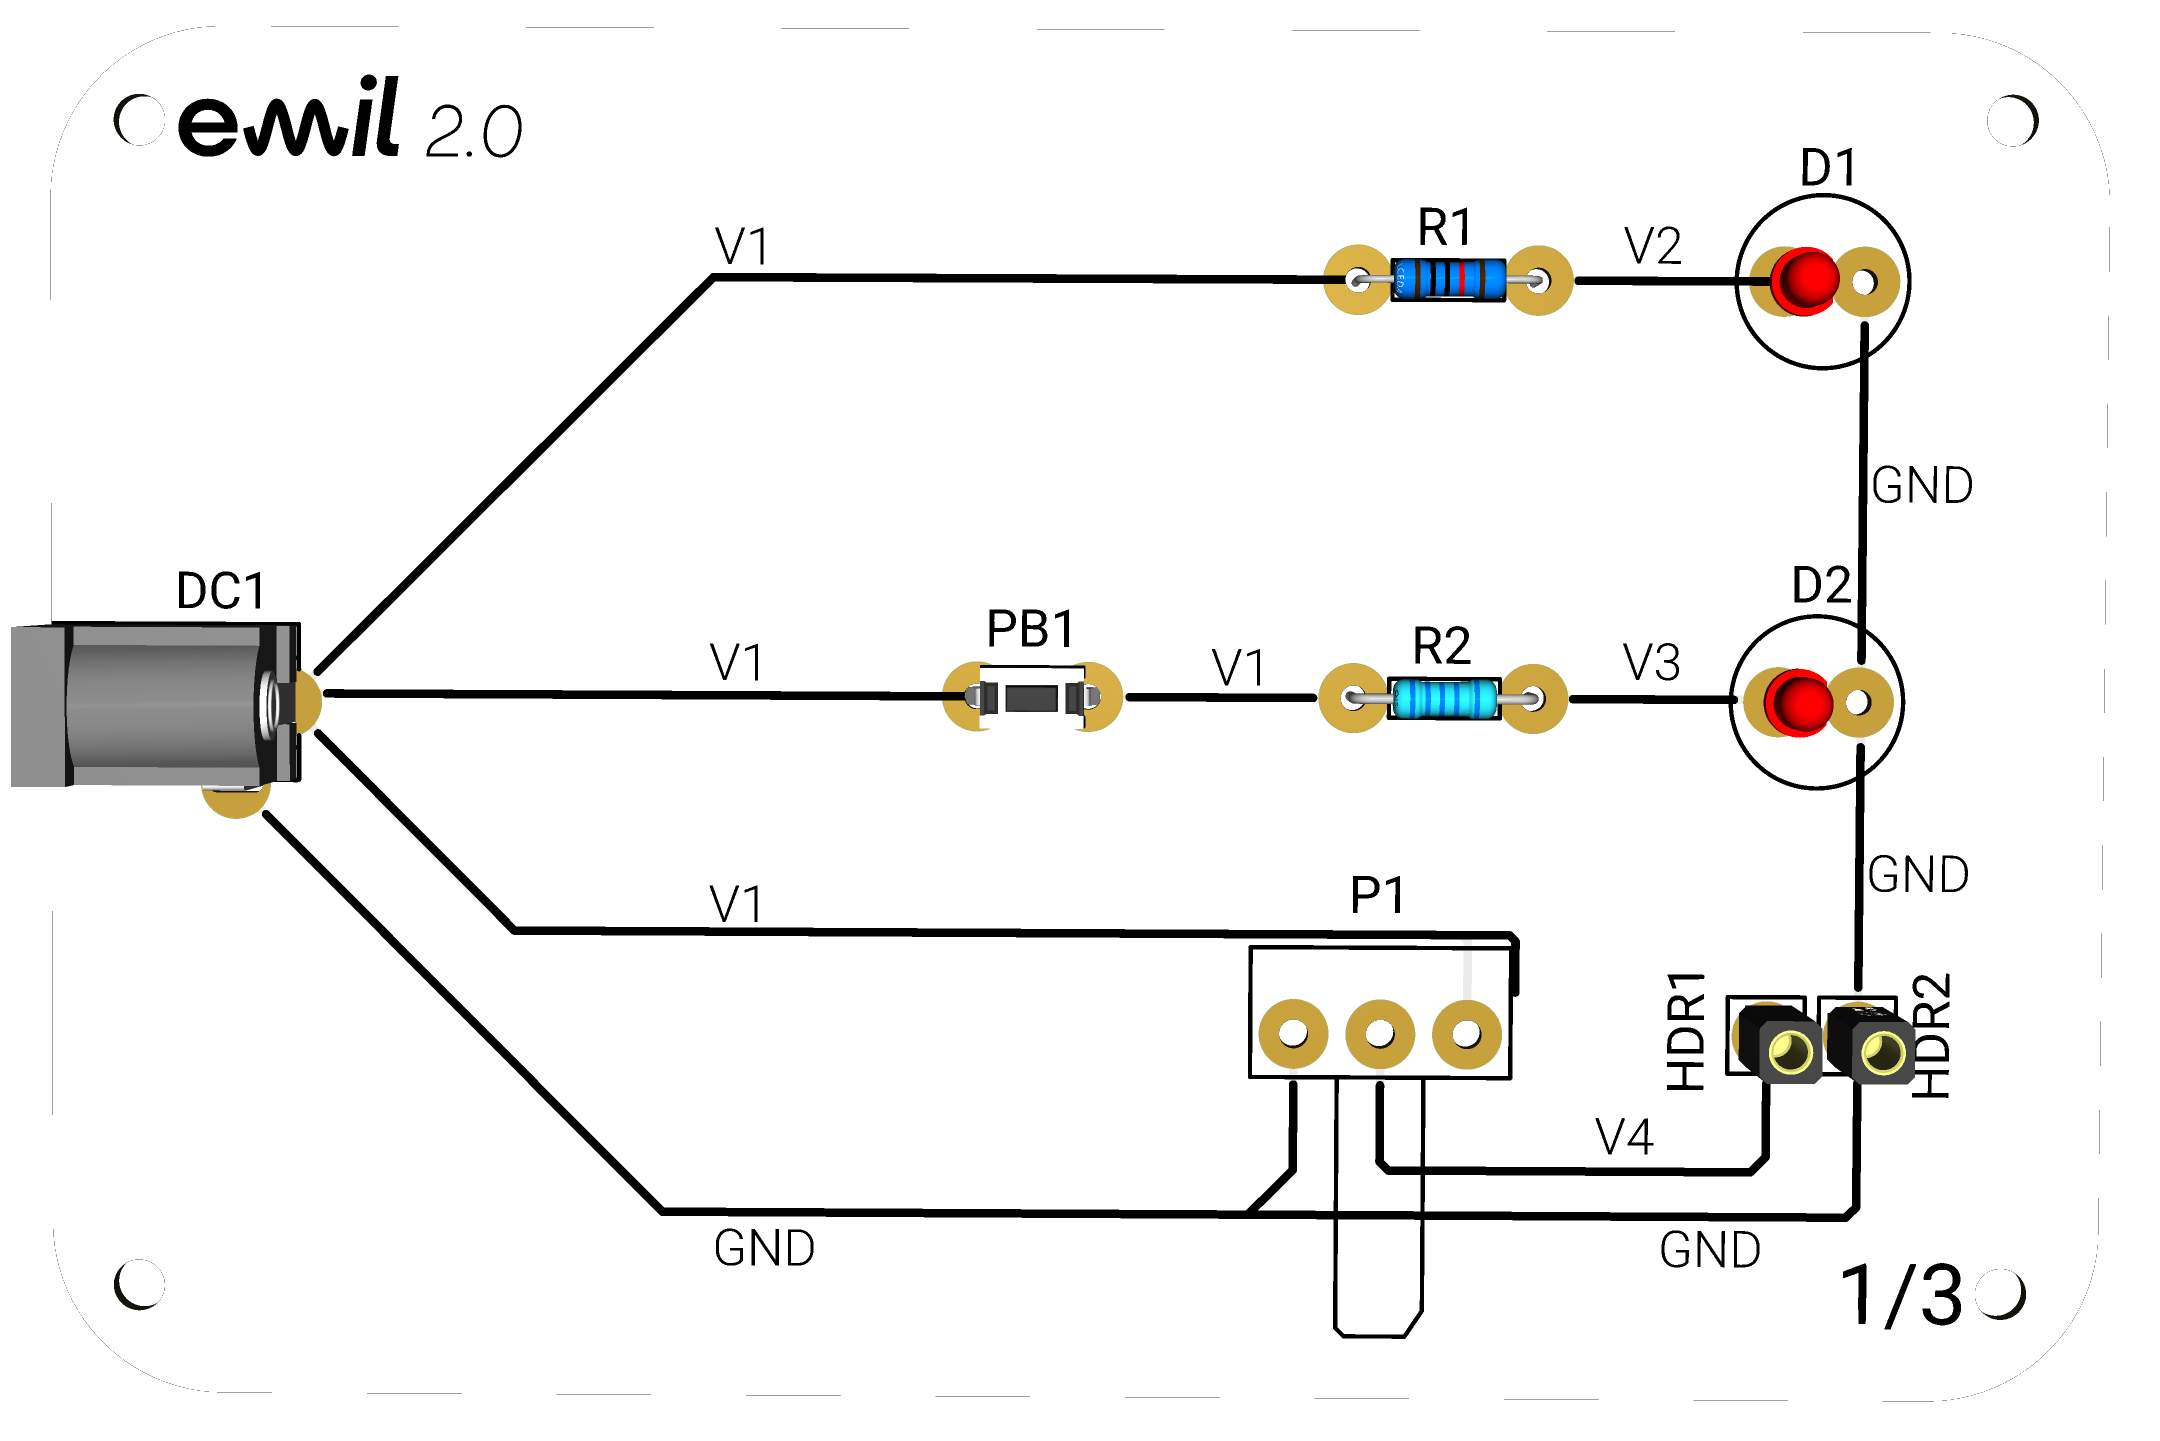
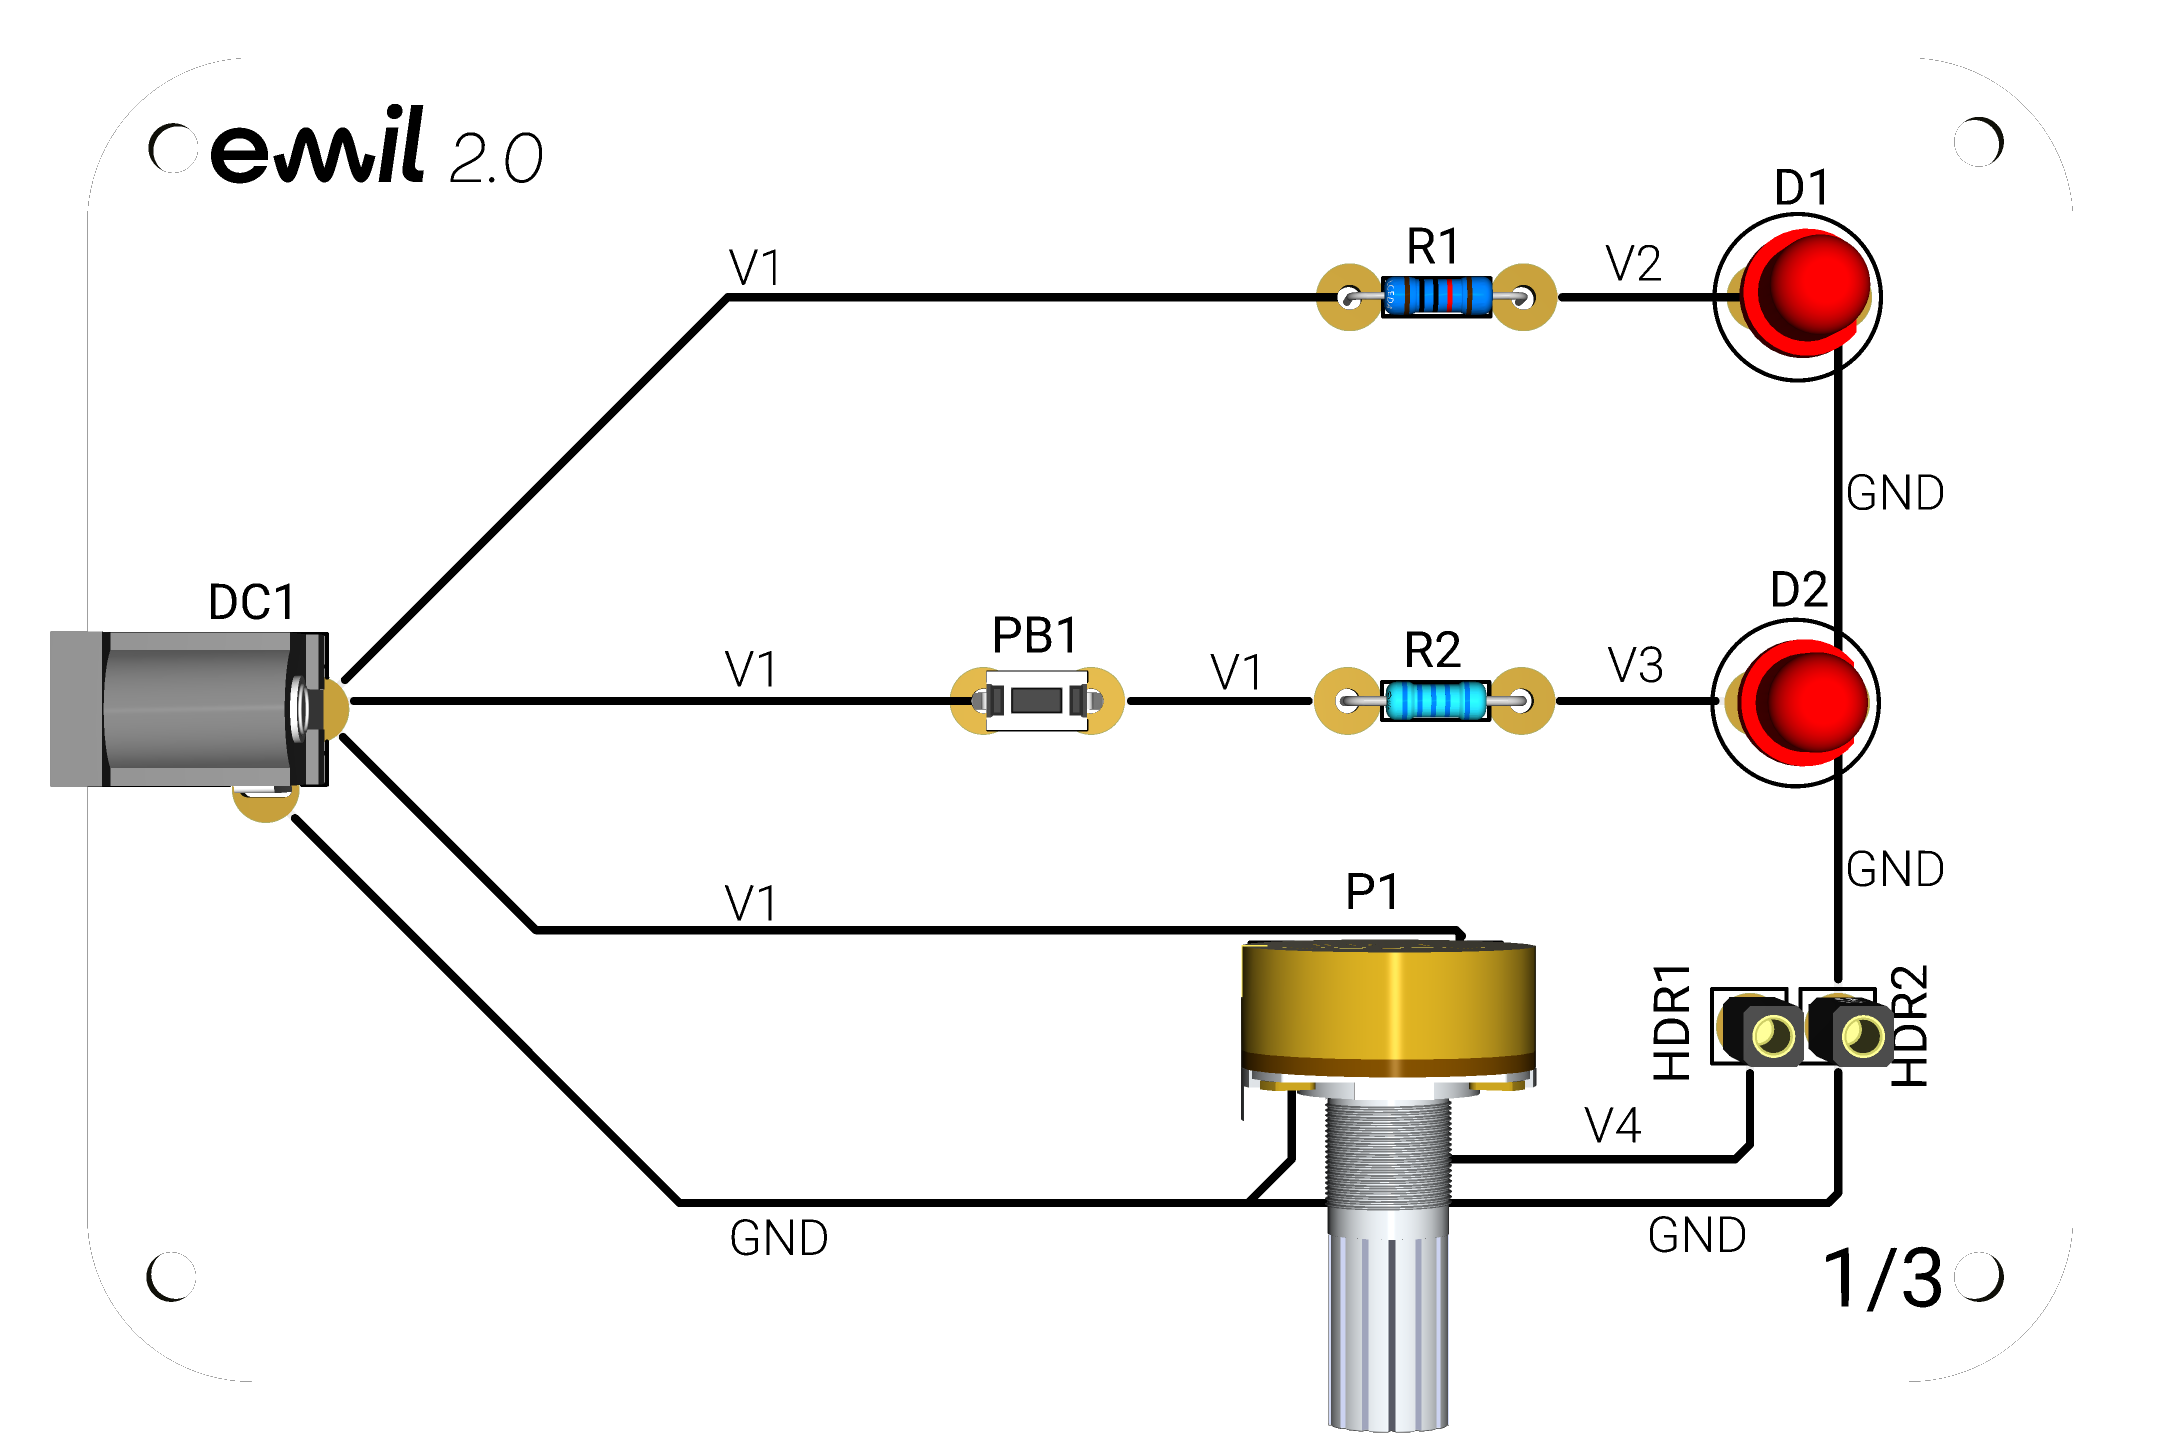
newest

diff --git a/index.html b/index.html
@@ -60,9 +60,9 @@
   <div class="wrap hero-grid">
 
     <figure class="hero-visual reveal">
-      <img src="assets/img/emil-deska-2-pcb.png"
+      <img src="assets/img/emil-deska-2-hero.png"
            alt="Neosazená deska plošných spojů Emil 2.0 (2/3) s potiskem schématu a pájecími ploškami"
-           width="1620" height="1079" fetchpriority="high">
+           width="2160" height="1439" fetchpriority="high">
     </figure>
 
     <div class="hero-copy reveal">
@@ -164,7 +164,7 @@
 
         <!-- ---- Deska 1/3 ---- -->
         <div class="board-stage" id="panel-b1" role="tabpanel" aria-labelledby="tab-b1">
-          <img src="assets/img/emil-deska-1.png" alt="Deska Emil 1/3 — DC konektor, rezistory, dvě LED diody, tlačítko, potenciometr a dva header konektory" width="1620" height="1081">
+          <img src="assets/img/emil-deska-1.png" alt="Deska Emil 1/3 — DC konektor, rezistory, dvě LED diody, tlačítko, potenciometr a dva header konektory" width="2160" height="1451">
           <div class="hotspots">
             <button class="hs" style="--x:7.5%;--y:48.4%"  data-part="b1-dc1"><i></i><span class="hs-tag">DC1</span></button>
             <button class="hs" style="--x:66.9%;--y:19.3%" data-part="b1-r1"><i></i><span class="hs-tag">R1</span></button>
@@ -179,7 +179,7 @@
 
         <!-- ---- Deska 2/3 ---- -->
         <div class="board-stage" id="panel-b2" role="tabpanel" aria-labelledby="tab-b2" hidden>
-          <img src="assets/img/emil-deska-2.png" alt="Deska Emil 2/3 — DC konektor, přepínač, teplotní rezistor, fotorezistor, tlačítko, kondenzátor, rezistor a tři LED diody" width="1620" height="1077" loading="lazy">
+          <img src="assets/img/emil-deska-2.png" alt="Deska Emil 2/3 — DC konektor, přepínač, teplotní rezistor, fotorezistor, tlačítko, kondenzátor, rezistor a tři LED diody" width="2160" height="1439" loading="lazy">
           <div class="hotspots">
             <button class="hs" style="--x:7.5%;--y:48.5%"  data-part="b2-dc1"><i></i><span class="hs-tag">DC1</span></button>
             <button class="hs" style="--x:39.5%;--y:32.7%" data-part="b2-sw1"><i></i><span class="hs-tag">SW1</span></button>
@@ -196,7 +196,7 @@
 
         <!-- ---- Deska 3/3 ---- -->
         <div class="board-stage" id="panel-b3" role="tabpanel" aria-labelledby="tab-b3" hidden>
-          <img src="assets/img/emil-deska-3.png" alt="Deska Emil 3/3 — DC konektor, rezistory, fotorezistor, testovací body TP1 až TP4, tři LED diody, cívka a tlačítko" width="1620" height="1084" loading="lazy">
+          <img src="assets/img/emil-deska-3.png" alt="Deska Emil 3/3 — DC konektor, rezistory, fotorezistor, testovací body TP1 až TP4, tři LED diody, cívka a tlačítko" width="2160" height="1439" loading="lazy">
           <div class="hotspots">
             <button class="hs" style="--x:7.5%;--y:47.8%"  data-part="b3-dc1"><i></i><span class="hs-tag">DC1</span></button>
             <button class="hs" style="--x:47.0%;--y:22.0%" data-part="b3-r1"><i></i><span class="hs-tag">R1</span></button>
@@ -227,7 +227,6 @@
           <div><dt>Uzel</dt><dd id="partNode">—</dd></div>
           <div><dt>Typ</dt><dd id="partType">—</dd></div>
         </dl>
-        <p class="panel-hint">Tip: procházejte body klávesami <kbd>←</kbd> <kbd>→</kbd>.</p>
       </aside>
 
     </div>
@@ -367,7 +366,7 @@
   <div class="wrap split split--rev">
 
     <figure class="split-media split-media--plain reveal">
-      <img src="assets/img/emil-deska-3.png" alt="Osazená deska Emil 3/3 s rezistory, fotorezistorem, cívkou, tlačítkem a třemi LED diodami" width="1620" height="1084" loading="lazy">
+      <img src="assets/img/emil-deska-3.png" alt="Osazená deska Emil 3/3 s rezistory, fotorezistorem, cívkou, tlačítkem a třemi LED diodami" width="2160" height="1439" loading="lazy">
       <figcaption>Deska 3/3 po osazení — cívka L1 a měřicí body TP1 až TP4.</figcaption>
     </figure>
 
@@ -448,8 +447,45 @@
       Napište nám počet sad a ročník, pro který desky sháníte. Ozveme se
       s cenovou nabídkou a termínem dodání.
     </p>
+
+    <form class="contact-form" id="contactForm" action="https://formsubmit.co/ajax/filip.zika@forestbit.cz" method="POST" novalidate>
+      <input type="hidden" name="_subject" value="Nová poptávka z webu Emil 2.0">
+      <input type="hidden" name="_captcha" value="false">
+      <input type="text" name="_honey" class="hp-field" tabindex="-1" autocomplete="off" aria-hidden="true">
+
+      <div class="form-row">
+        <label for="cfName">Jméno a příjmení *</label>
+        <input type="text" id="cfName" name="Jméno" required autocomplete="name">
+      </div>
+
+      <div class="form-row form-row--split">
+        <div>
+          <label for="cfSchool">Škola / organizace</label>
+          <input type="text" id="cfSchool" name="Škola" autocomplete="organization">
+        </div>
+        <div>
+          <label for="cfQty">Počet sad</label>
+          <input type="number" id="cfQty" name="Počet sad" min="1" inputmode="numeric">
+        </div>
+      </div>
+
+      <div class="form-row">
+        <label for="cfEmail">E-mail *</label>
+        <input type="email" id="cfEmail" name="E-mail" required autocomplete="email">
+      </div>
+
+      <div class="form-row">
+        <label for="cfMessage">Zpráva *</label>
+        <textarea id="cfMessage" name="Zpráva" rows="4" required></textarea>
+      </div>
+
+      <button class="btn btn--inv" type="submit">Odeslat poptávku</button>
+      <p class="form-status" id="formStatus" role="status" aria-live="polite"></p>
+    </form>
+
+    <p class="cta-alt">Nebo napište přímo:</p>
     <div class="cta-actions">
-      <a class="btn btn--inv" href="mailto:info@forestbit.cz?subject=Poptávka%20Emil%202.0">info@forestbit.cz</a>
+      <a class="btn btn--outline-inv" href="mailto:filip.zika@forestbit.cz?subject=Poptávka%20Emil%202.0">filip.zika@forestbit.cz</a>
       <a class="btn btn--outline-inv" href="https://www.instagram.com/emil_2_0_/" target="_blank" rel="noopener">@emil_2_0_</a>
     </div>
     <p class="cta-claim">Zapoj. Vyzkoušej. Pochop.</p>
@@ -477,7 +513,7 @@
 
     <nav class="footer-nav" aria-label="Kontakty">
       <h3>Kontakt</h3>
-      <a href="mailto:info@forestbit.cz">info@forestbit.cz</a>
+      <a href="mailto:filip.zika@forestbit.cz">filip.zika@forestbit.cz</a>
       <a href="https://forestbit.cz" target="_blank" rel="noopener">forestbit.cz</a>
       <a href="https://www.instagram.com/emil_2_0_/" target="_blank" rel="noopener">Instagram @emil_2_0_</a>
     </nav>

diff --git a/assets/css/style.css b/assets/css/style.css
@@ -303,11 +303,6 @@ table{border-collapse:collapse;width:100%}
   background:var(--paper);padding:9px 12px}
 .panel-meta dt{font-size:.76rem;color:var(--ink-45);font-family:var(--font-mono);letter-spacing:.08em}
 .panel-meta dd{margin:0;font-size:.82rem;font-weight:500}
-.panel-hint{margin-top:22px;padding-top:16px;border-top:1px solid var(--line-soft);
-  font-size:.76rem !important;color:var(--ink-45) !important}
-kbd{font-family:var(--font-mono);font-size:.72rem;border:1px solid var(--line);
-  border-bottom-width:2px;border-radius:4px;padding:1px 5px;background:var(--paper)}
-
 /* ============================================================
    PRINCIP / KROKY
    ============================================================ */
@@ -401,7 +396,46 @@ kbd{font-family:var(--font-mono);font-size:.72rem;border:1px solid var(--line);
 .cta{background:var(--ink);color:#fff;overflow:hidden;text-align:center}
 .cta-inner{position:relative;z-index:1;max-width:720px}
 .cta-lead{margin:22px auto 0;color:rgba(255,255,255,.66);max-width:48ch}
-.cta-actions{display:flex;flex-wrap:wrap;gap:12px;justify-content:center;margin-top:34px}
+
+.contact-form{
+  text-align:left;max-width:520px;margin:40px auto 0;
+  display:grid;gap:18px;
+}
+.form-row{display:grid;gap:7px}
+.form-row--split{grid-template-columns:1fr 1fr;gap:18px}
+.form-row--split > div{display:grid;gap:7px}
+.contact-form label{
+  font-family:var(--font-mono);font-size:.72rem;letter-spacing:.09em;
+  text-transform:uppercase;color:rgba(255,255,255,.55);
+}
+.contact-form input,
+.contact-form textarea{
+  width:100%;padding:12px 14px;border-radius:10px;
+  border:1px solid rgba(255,255,255,.22);background:rgba(255,255,255,.06);
+  color:#fff;font:inherit;font-size:.95rem;
+  transition:border-color .2s var(--ease),background .2s var(--ease);
+}
+.contact-form input::placeholder,
+.contact-form textarea::placeholder{color:rgba(255,255,255,.35)}
+.contact-form input:focus,
+.contact-form textarea:focus{
+  border-color:rgba(255,255,255,.6);background:rgba(255,255,255,.1);
+  outline:none;
+}
+.contact-form textarea{resize:vertical;min-height:96px}
+.hp-field{position:absolute;width:1px;height:1px;opacity:0;pointer-events:none;left:-9999px}
+.contact-form button{justify-self:start}
+.contact-form button[disabled]{opacity:.6;cursor:default;transform:none}
+
+.form-status{font-size:.85rem;min-height:1.2em;margin:0;color:rgba(255,255,255,.7)}
+.form-status.is-success{color:#8fe3a3}
+.form-status.is-error{color:#ff9a9a}
+
+.cta-alt{
+  margin-top:38px;font-size:.8rem;letter-spacing:.04em;
+  color:rgba(255,255,255,.45);
+}
+.cta-actions{display:flex;flex-wrap:wrap;gap:12px;justify-content:center;margin-top:14px}
 .cta-claim{
   margin-top:46px;padding-top:28px;border-top:1px solid rgba(255,255,255,.15);
   font-family:var(--font-mono);font-size:.85rem;letter-spacing:.22em;
@@ -481,6 +515,8 @@ kbd{font-family:var(--font-mono);font-size:.72rem;border:1px solid var(--line);
   .spectable td{display:block;padding-top:0;padding-bottom:16px}
   .spectable tr{display:block}
   .cta-actions .btn{flex:1 1 100%;justify-content:center}
+  .form-row--split{grid-template-columns:1fr}
+  .contact-form button{justify-self:stretch;justify-content:center}
 }
 
 @media (prefers-reduced-motion:reduce){

diff --git a/assets/js/main.js b/assets/js/main.js
@@ -37,6 +37,46 @@
   onScroll();
   window.addEventListener('scroll', onScroll, { passive: true });
 
+  /* ---------- kontaktní formulář ---------- */
+  var form = document.getElementById('contactForm');
+  var status = document.getElementById('formStatus');
+
+  if (form && status) {
+    form.addEventListener('submit', function (e) {
+      e.preventDefault();
+
+      if (form.querySelector('[name="_honey"]').value) return;
+
+      var btn = form.querySelector('button[type="submit"]');
+      var original = btn.textContent;
+
+      btn.disabled = true;
+      btn.textContent = 'Odesílám…';
+      status.textContent = '';
+      status.className = 'form-status';
+
+      fetch(form.action, {
+        method: 'POST',
+        headers: { Accept: 'application/json' },
+        body: new FormData(form)
+      })
+        .then(function (res) {
+          if (!res.ok) throw new Error('Odeslání se nezdařilo');
+          form.reset();
+          status.textContent = 'Děkujeme, poptávku jsme přijali. Ozveme se co nejdřív.';
+          status.classList.add('is-success');
+        })
+        .catch(function () {
+          status.textContent = 'Něco se nepovedlo. Napište nám prosím přímo na filip.zika@forestbit.cz.';
+          status.classList.add('is-error');
+        })
+        .finally(function () {
+          btn.disabled = false;
+          btn.textContent = original;
+        });
+    });
+  }
+
   /* ---------- reveal při scrollu ---------- */
   var revealables = document.querySelectorAll('.reveal');
 

diff --git a/README.md b/README.md
@@ -9,10 +9,11 @@ prezentace `Emil.pdf`, obrázky desek z dodaných renderů.
 ```
 index.html              celá stránka (9 sekcí)
 assets/css/style.css    styly — monochromatický technicistní vizuál
-assets/js/main.js       navigace, reveal animace, přepínání desek, hotspoty
+assets/js/main.js       navigace, reveal animace, přepínání desek, hotspoty, kontaktní formulář
 assets/img/             emil-logo.svg
-                        emil-deska-1.png, emil-deska-2.png, emil-deska-3.png
-                        emil-deska-2-pcb.png (holá deska)
+                        emil-deska-1.png, emil-deska-2.png, emil-deska-3.png (osazené desky pro sekci Anatomie desek)
+                        emil-deska-2-hero.png (neosazená deska 2/3 pro hero)
+                        emil-deska-2-pcb.png (nepoužito, ponecháno pro pozdější použití)
                         emil-box.jpg, emil-etiketa.jpg
 ```
 
@@ -39,7 +40,7 @@ je lepší stránku servírovat přes HTTP než otevírat `index.html` z disku.
 5. **Pro školy** — šest karet s argumenty pro nákup
 6. **Specifikace** — tabulka parametrů + holá deska 2/3
 7. **FAQ** — rozbalovací dotazy (`<details>`)
-8. **Kontakt / CTA** — inverzní blok s e-mailem a Instagramem
+8. **Kontakt / CTA** — poptávkový formulář + e-mail a Instagram jako alternativa
 9. **Patička**
 
 ## Interaktivní desky
@@ -52,6 +53,19 @@ Při výměně obrázku desky je potřeba přeměřit souřadnice bodů.
 Ovládání: myš (hover i klik), klávesnice — `←` / `→` mezi body i mezi
 záložkami desek.
 
+## Kontaktní formulář
+
+Formulář v sekci **Kontakt** odesílá data přes [FormSubmit](https://formsubmit.co)
+(`https://formsubmit.co/ajax/filip.zika@forestbit.cz`) — bezplatná služba,
+která POST z formuláře přepošle e-mailem, takže web nepotřebuje žádný
+vlastní backend. Odeslání běží přes `fetch` v `main.js` (bez opuštění
+stránky), obsahuje honeypot pole proti spamu a `_captcha=false`.
+
+**Před prvním použitím:** FormSubmit musí příjemce jednou potvrdit —
+po prvním odeslání formuláře přijde na `filip.zika@forestbit.cz`
+aktivační e-mail s odkazem „Activate form". Bez potvrzení se další
+zprávy nedoručí.
+
 ## Design
 
 - Barvy: `#1d1d1b` (ink), bílá, `#f2f2f0` (wash) — monochromaticky dle manuálu
@@ -61,7 +75,7 @@ záložkami desek.
 
 ## Co je potřeba doplnit před ostrým nasazením
 
-- reálné kontaktní údaje a odkaz na e-shop (nyní `info@forestbit.cz`, `forestbit.cz`)
+- potvrdit FormSubmit aktivační e-mail (viz výše), jinak poptávky nedojdou
 - ověřit popisy součástek v sekci **Anatomie desek** — jsou odvozené
   ze schémat na deskách, ne z dokumentace
 - vlastní hosting fontů, pokud je potřeba fungovat bez externích požadavků
